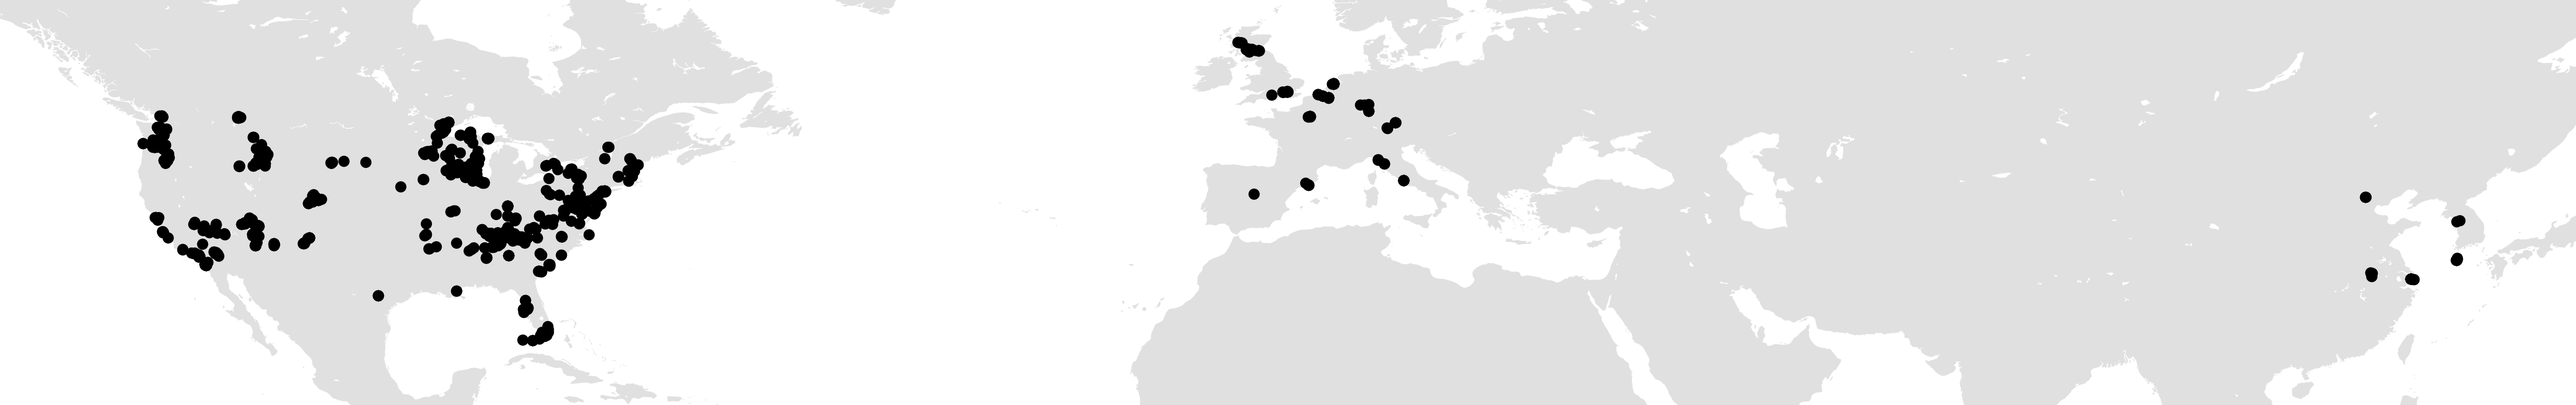
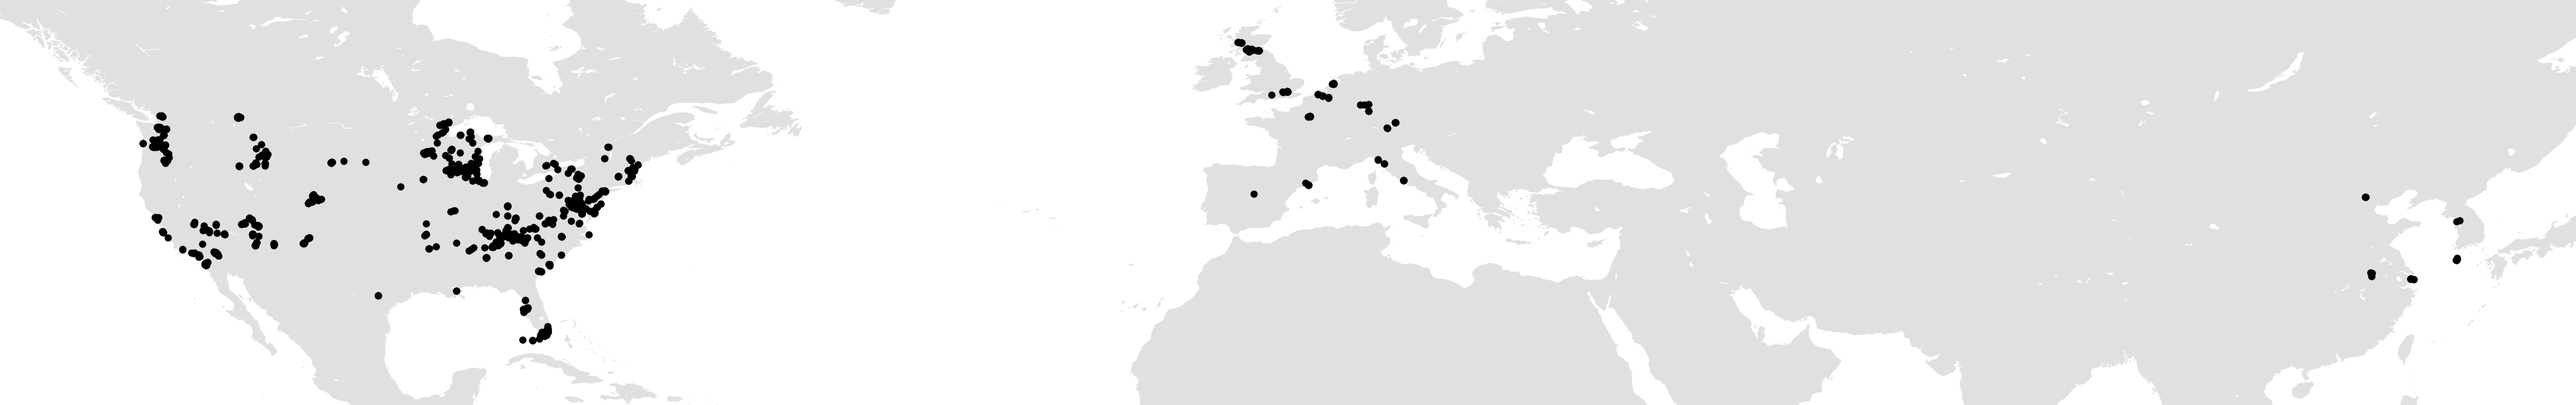
More hack points

diff --git a/map/plot_cartopy.py b/map/plot_cartopy.py
@@ -29,7 +29,6 @@ ax.add_feature(cf.NaturalEarthFeature('physical', 'lakes', '50m', edgecolor='non
 ax.set_extent([lon_min, lon_max, lat_min, lat_max], crs=ccrs.PlateCarree())
 
 
-# plot points as red dots
-ax.scatter(lon, lat, transform=ccrs.PlateCarree(), s=0.3, color='black',  zorder=2)
+ax.scatter(lon, lat, transform=ccrs.PlateCarree(), s=1, color='black',  zorder=2, lw=0)
 
 plt.savefig("map.png", bbox_inches="tight", dpi=1000, pad_inches=-0.01)
